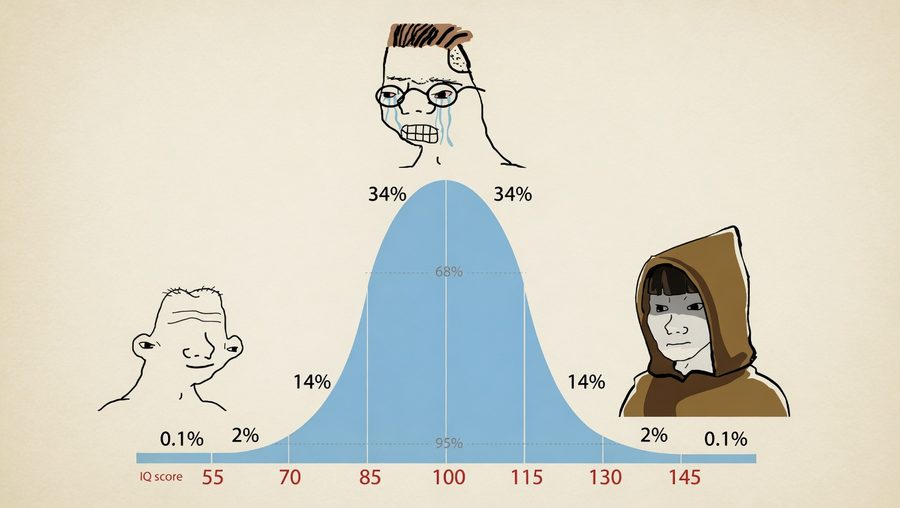
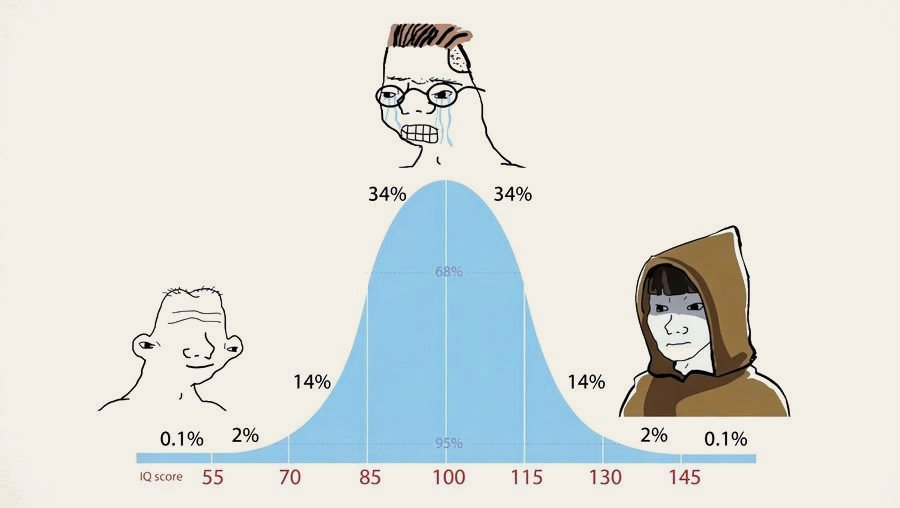
Blend IQ artwork into paper, ask follow-up at declaration, drop conditions

diff --git a/apps/republic/app/screening/page.tsx b/apps/republic/app/screening/page.tsx
@@ -1,28 +1,24 @@
 'use client'
 
-// Secondary screening — the guaranteed absurd-question step between identity
-// verification (/biometric) and /processing. Every applicant gets exactly one
-// question from the SCREENING_QUESTIONS rotation (drawn once per session,
-// persisted so a refresh doesn't re-roll it) plus the always-shown IQ
-// self-assessment: the bell-curve meme with a slider. Both answers land on
-// the progress card and final document via lib/visaAddendum.ts.
+// Secondary screening — the cognitive self-assessment step between identity
+// verification (/biometric) and /processing. The absurd follow-up question
+// itself now lives on the landing page (asked immediately after a YES
+// declaration — see app/page.tsx); this page is just the IQ bell-curve meme
+// with the slider. The declared IQ lands on the progress card and final
+// document (with its matching wojak face stamp) via lib/visaAddendum.ts.
 
 import { useEffect, useState } from 'react'
 import { useRouter } from 'next/navigation'
 import { PageShell } from '@/components/PageShell'
 import { Footer } from '@/components/Footer'
 import { useApplication } from '@/lib/applicationContext'
-import { SCREENING, SCREENING_QUESTIONS, iqFaceFor } from '@/lib/content'
+import { SCREENING, iqFaceFor } from '@/lib/content'
 import { addStamp } from '@/lib/passport'
-import { playBeep, playStampThunk } from '@/lib/sound'
-
-const optionButtonClass =
-  'min-h-11 border-2 px-3 py-2 text-left text-[12px] uppercase tracking-wide transition-all active:scale-[0.97]'
+import { playStampThunk } from '@/lib/sound'
 
 export default function ScreeningPage() {
   const router = useRouter()
   const { state, update, hydrated } = useApplication()
-  const [answer, setAnswer] = useState<string | null>(null)
   const [iq, setIq] = useState<number>(SCREENING.iqDefault)
 
   useEffect(() => {
@@ -38,33 +34,17 @@ export default function ScreeningPage() {
     // this page sits directly after it in the funnel.
     if (!state.visaType || !state.serial || !state.slot || !state.issuedDate || !state.selfieCaptured) {
       router.replace('/visa')
-      return
     }
-    // Draw the session's question exactly once and persist it, so a refresh
-    // mid-screening keeps the same question instead of re-rolling.
-    if (!state.screeningQuestion) {
-      const drawn = SCREENING_QUESTIONS[Math.floor(Math.random() * SCREENING_QUESTIONS.length)]
-      update({ screeningQuestion: drawn.question })
-    }
-  }, [hydrated, state, router, update])
+  }, [hydrated, state, router])
 
   if (!hydrated || !state.visaType || !state.selfieCaptured) return null
-
-  const question =
-    SCREENING_QUESTIONS.find((q) => q.question === state.screeningQuestion) ?? SCREENING_QUESTIONS[0]
 
   const face = iqFaceFor(iq)
   const fillPercent = Math.round(((iq - SCREENING.iqMin) / (SCREENING.iqMax - SCREENING.iqMin)) * 100)
 
-  function pickAnswer(option: string) {
-    playBeep()
-    setAnswer(option)
-  }
-
   function submit() {
-    if (!answer) return
     playStampThunk()
-    update({ screeningAnswer: answer, declaredIq: iq })
+    update({ declaredIq: iq })
     addStamp('SECONDARY SCREENING CLEARED')
     router.push('/processing')
   }
@@ -75,44 +55,22 @@ export default function ScreeningPage() {
         <h1 className="text-center font-stamp text-lg uppercase tracking-wide text-navy">{SCREENING.heading}</h1>
         <p className="mt-1 text-center text-[10px] uppercase leading-relaxed text-navy/60">{SCREENING.sub}</p>
 
-        <p className="mt-5 font-stamp text-sm uppercase leading-relaxed tracking-wide text-navy">
-          {question.question}
-        </p>
-        <div className="mt-3 flex flex-col gap-2">
-          {question.options.map((option) => (
-            <button
-              key={option}
-              type="button"
-              onClick={() => pickAnswer(option)}
-              className={`${optionButtonClass} ${
-                answer === option
-                  ? 'border-approve bg-approve text-paper'
-                  : 'border-navy/40 text-navy hover:border-navy'
-              }`}
-            >
-              <span className="font-stamp">{option}</span>
-            </button>
-          ))}
-        </div>
-
-        <div className="mt-6 border-t-2 border-dashed border-navy/30 pt-4">
+        <div className="mt-5">
           <h2 className="text-center font-stamp text-sm uppercase tracking-wide text-navy">{SCREENING.iqHeading}</h2>
           <p className="mt-1 text-center text-[10px] uppercase leading-relaxed text-navy/60">
             {SCREENING.iqInstruction}
           </p>
           {/* Static meme chart — decorative context for the slider, no event
-              details, no external requests (served from /public). */}
+              details, no external requests (served from /public). Its
+              background is pre-flattened onto the paper color (#f4f0e8) so it
+              blends into the card seamlessly. */}
           {/* eslint-disable-next-line @next/next/no-img-element */}
-          <img src="/iq-bell-curve.jpg" alt={SCREENING.iqImageAlt} className="mt-3 w-full border-2 border-navy/30" />
+          <img src="/iq-bell-curve.jpg" alt={SCREENING.iqImageAlt} className="mt-3 w-full" />
 
           {/* Live verdict — the wojak the declared IQ currently lands on. */}
           <div className="mt-4 flex items-center justify-center gap-3">
             {/* eslint-disable-next-line @next/next/no-img-element */}
-            <img
-              src={face.src}
-              alt={face.alt}
-              className="h-16 w-16 border-2 border-navy bg-white object-contain"
-            />
+            <img src={face.src} alt={face.alt} className="h-16 w-16 border-2 border-navy object-contain" />
             <div className="text-left">
               <p className="font-stamp text-2xl uppercase tracking-widest text-navy">{iq}</p>
               <p className="text-[9px] uppercase tracking-wide text-navy/60">{face.caption}</p>
@@ -141,8 +99,7 @@ export default function ScreeningPage() {
         <button
           type="button"
           onClick={submit}
-          disabled={!answer}
-          className="mt-5 min-h-11 w-full border-2 border-navy bg-navy py-3 font-stamp text-sm uppercase tracking-widest text-paper transition-all hover:opacity-90 active:scale-[0.97] disabled:opacity-40"
+          className="mt-5 min-h-11 w-full border-2 border-navy bg-navy py-3 font-stamp text-sm uppercase tracking-widest text-paper transition-all hover:opacity-90 active:scale-[0.97]"
         >
           {SCREENING.submit}
         </button>

diff --git a/apps/republic/app/page.tsx b/apps/republic/app/page.tsx
@@ -11,7 +11,7 @@ import { Typewriter } from '@/components/Typewriter'
 import { addStamp } from '@/lib/passport'
 import { getApplicantNumber } from '@/lib/api'
 import { clearAnimatedFields } from '@/lib/formProgress'
-import { LANDING, formatApplicantNumber } from '@/lib/content'
+import { LANDING, SCREENING_QUESTIONS, formatApplicantNumber, type ScreeningQuestion } from '@/lib/content'
 import { playStampThunk } from '@/lib/sound'
 import { useApplication } from '@/lib/applicationContext'
 
@@ -25,6 +25,11 @@ export default function EntryDeclarationPage() {
   // `null` and is only ever populated inside the effect below, after mount.
   const [showQuestion, setShowQuestion] = useState(false)
   const [applicantNumber, setApplicantNumber] = useState<number | null>(null)
+  // The absurd follow-up drawn after a YES declaration — null until then.
+  // Guaranteed for every applicant (owner request: 100% occurrence), one of
+  // SCREENING_QUESTIONS at random; the answer prints on the passport via
+  // lib/visaAddendum.ts#getScreeningAddenda.
+  const [followUp, setFollowUp] = useState<ScreeningQuestion | null>(null)
 
   useEffect(() => {
     // Landing restarts the funnel on every visit, but identity is preserved
@@ -49,7 +54,21 @@ export default function EntryDeclarationPage() {
 
   function handleAnswer(answer: 'yes' | 'no') {
     playStampThunk()
-    router.push(answer === 'no' ? '/denied' : '/identity')
+    if (answer === 'no') {
+      router.push('/denied')
+      return
+    }
+    // Declaring something triggers immediate follow-up questioning — the
+    // officer needs details. Navigation waits for the answer below.
+    setFollowUp(SCREENING_QUESTIONS[Math.floor(Math.random() * SCREENING_QUESTIONS.length)])
+  }
+
+  function answerFollowUp(option: string) {
+    if (!followUp) return
+    playStampThunk()
+    update({ screeningQuestion: followUp.question, screeningAnswer: option })
+    addStamp('FOLLOW-UP QUESTIONING CLEARED')
+    router.push('/identity')
   }
 
   return (
@@ -78,32 +97,54 @@ export default function EntryDeclarationPage() {
 
         <div className="barcode mt-2 !h-3" aria-hidden />
 
-        <div className="mt-3 min-h-[3rem] text-center">
-          <Typewriter
-            text={LANDING.question}
-            className="font-stamp text-base uppercase tracking-wide text-navy"
-            onDone={() => setShowQuestion(true)}
-          />
-        </div>
+        {!followUp ? (
+          <>
+            <div className="mt-3 min-h-[3rem] text-center">
+              <Typewriter
+                text={LANDING.question}
+                className="font-stamp text-base uppercase tracking-wide text-navy"
+                onDone={() => setShowQuestion(true)}
+              />
+            </div>
 
-        <div
-          className={`mt-3 grid grid-cols-2 gap-4 transition-opacity duration-300 ${showQuestion ? 'opacity-100' : 'pointer-events-none opacity-0'}`}
-        >
-          <button
-            type="button"
-            onClick={() => handleAnswer('yes')}
-            className="min-h-11 border-2 border-approve bg-paper py-3 font-stamp text-lg uppercase tracking-widest text-approve transition-all hover:bg-approve hover:text-paper active:scale-[0.97]"
-          >
-            {LANDING.yes}
-          </button>
-          <button
-            type="button"
-            onClick={() => handleAnswer('no')}
-            className="min-h-11 border-2 border-stamp bg-paper py-3 font-stamp text-lg uppercase tracking-widest text-stamp transition-all hover:bg-stamp hover:text-paper active:scale-[0.97]"
-          >
-            {LANDING.no}
-          </button>
-        </div>
+            <div
+              className={`mt-3 grid grid-cols-2 gap-4 transition-opacity duration-300 ${showQuestion ? 'opacity-100' : 'pointer-events-none opacity-0'}`}
+            >
+              <button
+                type="button"
+                onClick={() => handleAnswer('yes')}
+                className="min-h-11 border-2 border-approve bg-paper py-3 font-stamp text-lg uppercase tracking-widest text-approve transition-all hover:bg-approve hover:text-paper active:scale-[0.97]"
+              >
+                {LANDING.yes}
+              </button>
+              <button
+                type="button"
+                onClick={() => handleAnswer('no')}
+                className="min-h-11 border-2 border-stamp bg-paper py-3 font-stamp text-lg uppercase tracking-widest text-stamp transition-all hover:bg-stamp hover:text-paper active:scale-[0.97]"
+              >
+                {LANDING.no}
+              </button>
+            </div>
+          </>
+        ) : (
+          <div className="animate-fade-in mt-3">
+            <p className="text-center font-stamp text-sm uppercase leading-relaxed tracking-wide text-navy">
+              {followUp.question}
+            </p>
+            <div className="mt-3 flex flex-col gap-2">
+              {followUp.options.map((option) => (
+                <button
+                  key={option}
+                  type="button"
+                  onClick={() => answerFollowUp(option)}
+                  className="min-h-11 border-2 border-navy/40 px-3 py-2 text-left text-[12px] uppercase tracking-wide text-navy transition-all hover:border-approve hover:bg-approve hover:text-paper active:scale-[0.97]"
+                >
+                  <span className="font-stamp">{option}</span>
+                </button>
+              ))}
+            </div>
+          </div>
+        )}
       </div>
 
       <div className="mt-2 flex flex-col items-center">

diff --git a/apps/republic/app/visa-issued/page.tsx b/apps/republic/app/visa-issued/page.tsx
@@ -281,8 +281,8 @@ export default function VisaIssuedPage() {
       rowY += rowGap
       cell(STICKER_LABELS.issued, issueDate, colAx, colWidth)
       cell(STICKER_LABELS.valid, APPROVED.validValue, colBx, colWidth)
-      rowY += rowGap
-      cell(STICKER_LABELS.conditions, APPROVED.conditionsValue, colAx, fullWidth)
+      // CONDITIONS row removed from the passport per owner feedback — the
+      // "bring snacks" gag survives only in the /visa-issued page subtitle.
 
       // Appointment + visa-specific answer addenda. These are outside the
       // sticker field grid, with the same dashed-divider treatment as the DOM
@@ -309,7 +309,7 @@ export default function VisaIssuedPage() {
           const size = 52
           const sx = CANVAS_W - 60 - size
           const sy = addendumY - 8
-          context.fillStyle = '#ffffff'
+          context.fillStyle = PAPER
           context.fillRect(sx, sy, size, size)
           const scale = Math.min(size / stamp.width, size / stamp.height)
           const dw = stamp.width * scale
@@ -422,7 +422,6 @@ export default function VisaIssuedPage() {
     { key: 'reference', label: STICKER_LABELS.reference, value: state.referenceCode, span: true },
     { key: 'issued', label: STICKER_LABELS.issued, value: issueDate },
     { key: 'valid', label: STICKER_LABELS.valid, value: APPROVED.validValue },
-    { key: 'conditions', label: STICKER_LABELS.conditions, value: APPROVED.conditionsValue, span: true },
   ]
   const addenda: VisaDocumentAddendum[] = [
     { key: 'appointment', label: DOCUMENT_PROGRESS.appointmentLabel, value: state.slot },

diff --git a/apps/republic/components/DocumentProgress.tsx b/apps/republic/components/DocumentProgress.tsx
@@ -66,7 +66,6 @@ export function DocumentProgress() {
   const referenceAnimate = useRevealAnimation('reference', Boolean(state.referenceCode))
   const issuedAnimate = useRevealAnimation('issued', Boolean(state.issuedDate))
   const validAnimate = useRevealAnimation('valid', Boolean(state.visaType))
-  const conditionsAnimate = useRevealAnimation('conditions', Boolean(state.visaType))
   const photoAnimate = useRevealAnimation('photo', Boolean(state.selfieThumbnailUrl))
   const appointmentAnimate = useRevealAnimation('appointment', Boolean(state.slot))
   const subStepAddendum = getVisaAddendum(state)
@@ -98,13 +97,6 @@ export function DocumentProgress() {
     },
     { key: 'issued', label: STICKER_LABELS.issued, value: state.issuedDate, animate: issuedAnimate },
     { key: 'valid', label: STICKER_LABELS.valid, value: visa ? APPROVED.validValue : null, animate: validAnimate },
-    {
-      key: 'conditions',
-      label: STICKER_LABELS.conditions,
-      value: visa ? APPROVED.conditionsValue : null,
-      span: true,
-      animate: conditionsAnimate,
-    },
   ]
 
   const addenda: VisaDocumentAddendum[] = [

diff --git a/apps/republic/lib/content.ts b/apps/republic/lib/content.ts
@@ -467,9 +467,9 @@ export interface IqFace {
 }
 
 export function iqFaceFor(iq: number): IqFace {
-  if (iq < 85) return { src: '/iq-face-low.png', alt: 'Blissful low-IQ wojak', caption: 'BLISSFUL. NO NOTES.' }
-  if (iq <= 115) return { src: '/iq-face-mid.png', alt: 'Crying midwit wojak', caption: 'MIDWIT. CONDOLENCES.' }
-  return { src: '/iq-face-high.png', alt: 'Hooded enlightened wojak', caption: 'ENLIGHTENED. ALLEGEDLY.' }
+  if (iq < 85) return { src: '/iq-face-low.jpg', alt: 'Blissful low-IQ wojak', caption: 'BLISSFUL. NO NOTES.' }
+  if (iq <= 115) return { src: '/iq-face-mid.jpg', alt: 'Crying midwit wojak', caption: 'MIDWIT. CONDOLENCES.' }
+  return { src: '/iq-face-high.jpg', alt: 'Hooded enlightened wojak', caption: 'ENLIGHTENED. ALLEGEDLY.' }
 }
 
 export const PROCESSING_HEADING = 'PROCESSING APPLICATION'

diff --git a/apps/republic/components/VisaDocument.tsx b/apps/republic/components/VisaDocument.tsx
@@ -159,7 +159,7 @@ export function VisaDocument({ size, visaName, photoUrl, photoAnimate, fields, a
                   <img
                     src={item.imageSrc}
                     alt={item.imageAlt ?? ''}
-                    className={`shrink-0 border border-navy bg-white object-contain ${size === 'full' ? 'h-10 w-10' : 'h-5 w-5'}`}
+                    className={`shrink-0 border border-navy object-contain ${size === 'full' ? 'h-10 w-10' : 'h-5 w-5'}`}
                   />
                 )}
                 <span className={size === 'full' ? 'break-words' : 'truncate'}>{item.value}</span>
